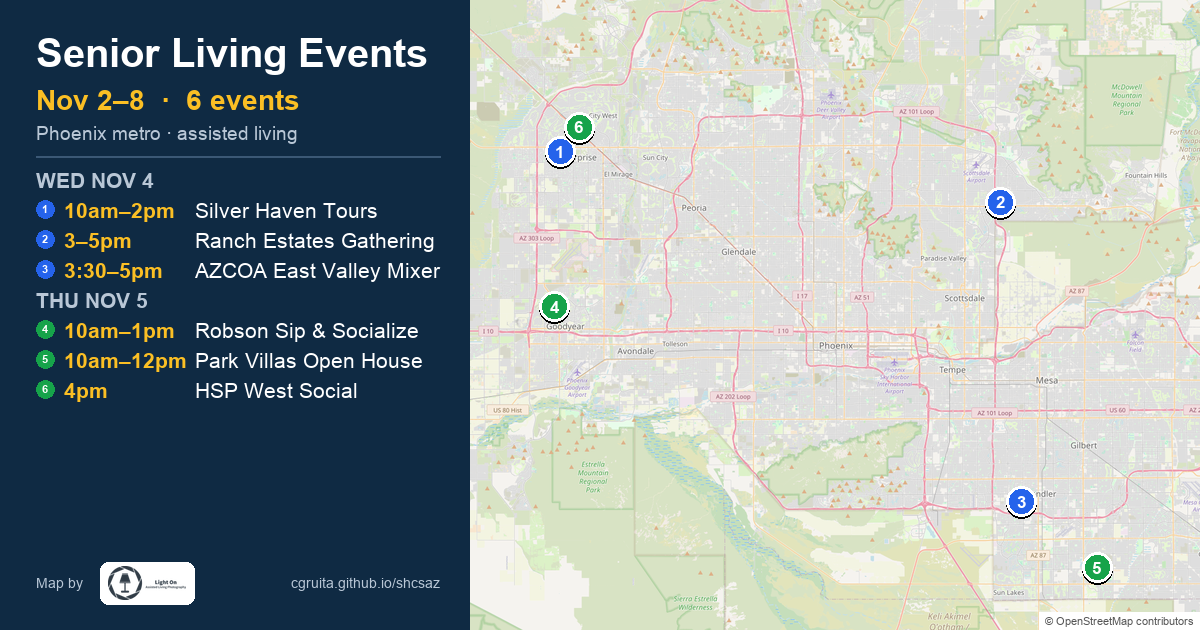
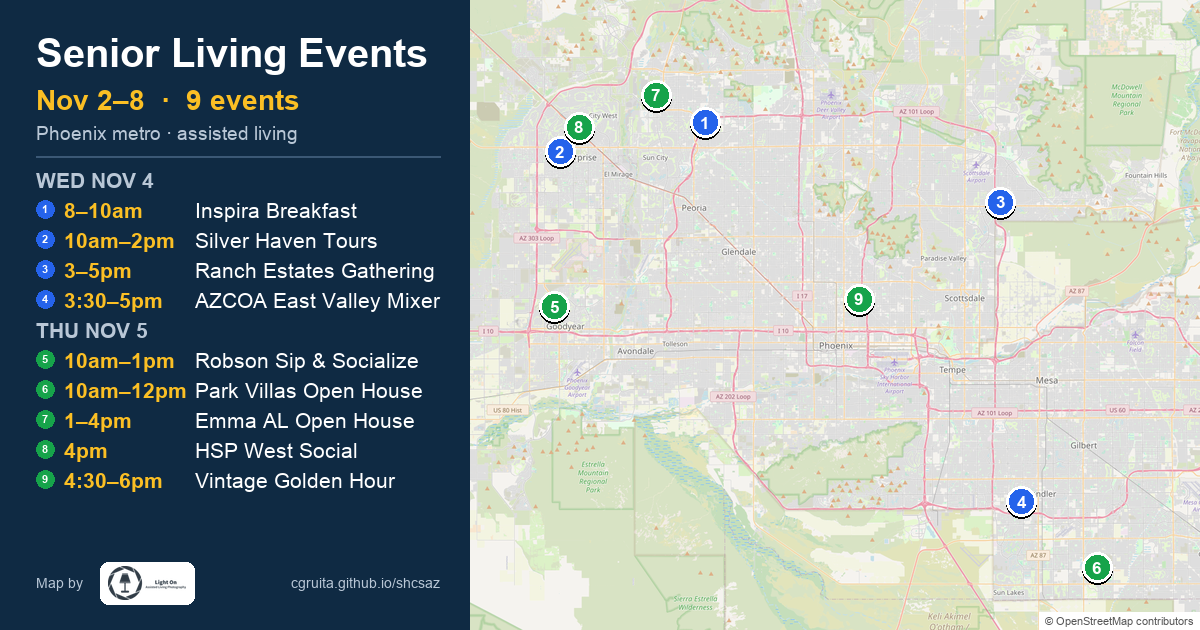
Week of Nov 2, 2026-11-01-2

diff --git a/index.html b/index.html
@@ -4,23 +4,23 @@
   <meta charset="UTF-8" />
   <title>Phoenix Metro Weekly Assisted Living Events</title>
   <!-- og:start (generated by scripts/build_preview.py) -->
-  <meta name="description" content="Nov 2–8 · 6 assisted living events across the Valley" />
+  <meta name="description" content="Nov 2–8 · 9 assisted living events across the Valley" />
   <meta property="og:type" content="website" />
   <meta property="og:title" content="Senior Living Events · Nov 2–8" />
-  <meta property="og:description" content="Nov 2–8 · 6 assisted living events across the Valley" />
+  <meta property="og:description" content="Nov 2–8 · 9 assisted living events across the Valley" />
   <meta property="og:url" content="https://cgruita.github.io/shcsaz/" />
-  <meta property="og:image" content="https://cgruita.github.io/shcsaz/images/preview.png?v=2026-11-01-1" />
+  <meta property="og:image" content="https://cgruita.github.io/shcsaz/images/preview.png?v=2026-11-01-2" />
   <meta property="og:image:width" content="1200" />
   <meta property="og:image:height" content="630" />
   <meta name="twitter:card" content="summary_large_image" />
   <meta name="twitter:title" content="Senior Living Events · Nov 2–8" />
-  <meta name="twitter:description" content="Nov 2–8 · 6 assisted living events across the Valley" />
-  <meta name="twitter:image" content="https://cgruita.github.io/shcsaz/images/preview.png?v=2026-11-01-1" />
+  <meta name="twitter:description" content="Nov 2–8 · 9 assisted living events across the Valley" />
+  <meta name="twitter:image" content="https://cgruita.github.io/shcsaz/images/preview.png?v=2026-11-01-2" />
   <!-- og:end -->
   <meta name="viewport" content="width=device-width, initial-scale=1" />
   <link href="https://api.mapbox.com/mapbox-gl-js/v3.6.0/mapbox-gl.css" rel="stylesheet" />
   <link href="vendor/leaflet/leaflet.css" rel="stylesheet" />
-  <link href="css/styles.css?v=2026-11-01-1" rel="stylesheet" />
+  <link href="css/styles.css?v=2026-11-01-2" rel="stylesheet" />
 </head>
 <body>
   <header>
@@ -89,7 +89,7 @@
     })();
   </script>
   <script src="https://api.mapbox.com/mapbox-gl-js/v3.6.0/mapbox-gl.js"></script>
-  <script src="js/config.js?v=2026-11-01-1"></script>
-  <script src="js/map.js?v=2026-11-01-1"></script>
+  <script src="js/config.js?v=2026-11-01-2"></script>
+  <script src="js/map.js?v=2026-11-01-2"></script>
 </body>
 </html>

diff --git a/js/config.js b/js/config.js
@@ -1,2 +1,2 @@
 const MAPBOX_TOKEN = "pk.eyJ1IjoiY2dydWl0YSIsImEiOiJjbXRhanNoYzkwMGRrMndvYnQ5OWFvcHZoIn0.IXzPp--fY9nrZjRw5MfD2A";
-const MAP_VERSION = "2026-11-01-1";
+const MAP_VERSION = "2026-11-01-2";
